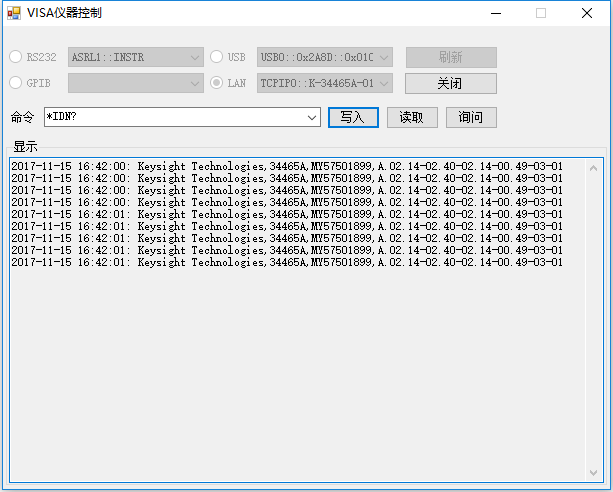
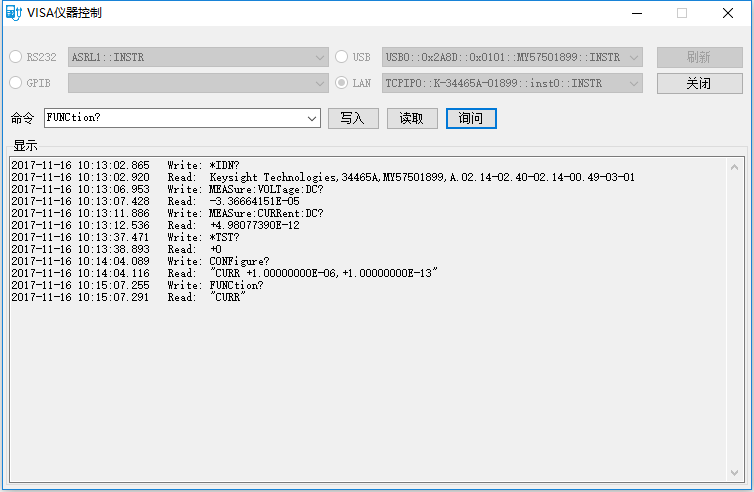
增加命令可储存/软件退出时关闭仪器/删除多余的代码

Changed region(s): [[0.0, 0.0, 1.0, 1.0], [0.8679, 0.0, 0.8989, 0.0305]]

diff --git a/VISAInstrument/FrmMain.Designer.cs b/VISAInstrument/FrmMain.Designer.cs
@@ -463,39 +463,39 @@
             this.toolStripMenuItem2,
             this.byCNXYToolStripMenuItem});
             this.contextMenuStrip.Name = "contextMenuStrip";
-            this.contextMenuStrip.Size = new System.Drawing.Size(153, 126);
+            this.contextMenuStrip.Size = new System.Drawing.Size(128, 104);
             this.contextMenuStrip.Opening += new System.ComponentModel.CancelEventHandler(this.contextMenuStrip_Opening);
             // 
             // 清除ToolStripMenuItem
             // 
             this.清除ToolStripMenuItem.Name = "清除ToolStripMenuItem";
-            this.清除ToolStripMenuItem.Size = new System.Drawing.Size(152, 22);
+            this.清除ToolStripMenuItem.Size = new System.Drawing.Size(127, 22);
             this.清除ToolStripMenuItem.Text = "清除";
             this.清除ToolStripMenuItem.Click += new System.EventHandler(this.清除ToolStripMenuItem_Click);
             // 
             // toolStripMenuItem1
             // 
             this.toolStripMenuItem1.Name = "toolStripMenuItem1";
-            this.toolStripMenuItem1.Size = new System.Drawing.Size(149, 6);
+            this.toolStripMenuItem1.Size = new System.Drawing.Size(124, 6);
             // 
             // 全选ToolStripMenuItem
             // 
             this.全选ToolStripMenuItem.Name = "全选ToolStripMenuItem";
-            this.全选ToolStripMenuItem.Size = new System.Drawing.Size(152, 22);
+            this.全选ToolStripMenuItem.Size = new System.Drawing.Size(127, 22);
             this.全选ToolStripMenuItem.Text = "全选";
             this.全选ToolStripMenuItem.Click += new System.EventHandler(this.全选ToolStripMenuItem_Click);
             // 
             // 复制ToolStripMenuItem
             // 
             this.复制ToolStripMenuItem.Name = "复制ToolStripMenuItem";
-            this.复制ToolStripMenuItem.Size = new System.Drawing.Size(152, 22);
+            this.复制ToolStripMenuItem.Size = new System.Drawing.Size(127, 22);
             this.复制ToolStripMenuItem.Text = "复制";
             this.复制ToolStripMenuItem.Click += new System.EventHandler(this.复制ToolStripMenuItem_Click);
             // 
             // toolStripMenuItem2
             // 
             this.toolStripMenuItem2.Name = "toolStripMenuItem2";
-            this.toolStripMenuItem2.Size = new System.Drawing.Size(149, 6);
+            this.toolStripMenuItem2.Size = new System.Drawing.Size(124, 6);
             // 
             // byCNXYToolStripMenuItem
             // 
@@ -503,7 +503,7 @@
             this.githubToolStripMenuItem,
             this.blogToolStripMenuItem});
             this.byCNXYToolStripMenuItem.Name = "byCNXYToolStripMenuItem";
-            this.byCNXYToolStripMenuItem.Size = new System.Drawing.Size(152, 22);
+            this.byCNXYToolStripMenuItem.Size = new System.Drawing.Size(127, 22);
             this.byCNXYToolStripMenuItem.Text = "By CNXY";
             // 
             // githubToolStripMenuItem
@@ -533,6 +533,7 @@
             this.Name = "FrmMain";
             this.StartPosition = System.Windows.Forms.FormStartPosition.CenterScreen;
             this.Text = "VISA仪器控制";
+            this.FormClosing += new System.Windows.Forms.FormClosingEventHandler(this.FrmMain_FormClosing);
             this.Load += new System.EventHandler(this.FrmMain_Load);
             this.tableLayoutPanel.ResumeLayout(false);
             this.groupBoxDisplay.ResumeLayout(false);

diff --git a/VISAInstrument/FrmMain.cs b/VISAInstrument/FrmMain.cs
@@ -1,16 +1,13 @@
 using System;
-using System.Collections.Generic;
 using System.ComponentModel;
 using System.Data;
-using System.Drawing;
 using System.Linq;
-using System.Text;
 using System.Windows.Forms;
+using System.IO.Ports;
+using System.Diagnostics;
 using VISAInstrument.Port;
 using VISAInstrument.Extension;
 using VISAInstrument.Properties;
-using System.IO.Ports;
-using System.Diagnostics;
 
 namespace VISAInstrument
 {
@@ -68,13 +65,16 @@ namespace VISAInstrument
             }
             try
             {
+                DisplayToTextBox($"Write: {cboCommand.Text}");
                 portOperatorBase.WriteLine(cboCommand.Text);
+                cboCommand.AddItem(cboCommand.Text);
             }
             catch
             {
                 MessageBox.Show($"写入命令\"{cboCommand.Text}\"失败！");
             }
         }
+
 
         private void btnRead_Click(object sender, EventArgs e)
         {
@@ -88,7 +88,7 @@ namespace VISAInstrument
             {
                 result = ex.Message;
             }
-            DisplayToTextBox(result);
+            DisplayToTextBox($"Read:  {result}");
         }
 
         private void btnQuery_Click(object sender, EventArgs e)
@@ -132,7 +132,7 @@ namespace VISAInstrument
 
         private void DisplayToTextBox(string content)
         {
-            txtDisplay.Text += $"{DateTime.Now:yyyy-MM-dd HH:mm:ss}: {content}\r\n";
+            txtDisplay.Text += $"{DateTime.Now:yyyy-MM-dd HH:mm:ss.fff}   {content}\r\n";
             txtDisplay.SelectionStart = txtDisplay.Text.Length - 1;
             txtDisplay.ScrollToCaret();
         }
@@ -234,6 +234,15 @@ namespace VISAInstrument
         private void blogToolStripMenuItem_Click(object sender, EventArgs e)
         {
             Process.Start("http://www.cnc6.cn");
+        }
+
+        private void FrmMain_FormClosing(object sender, FormClosingEventArgs e)
+        {
+            try
+            {
+                portOperatorBase?.Close();
+            }
+            catch { }
         }
     }
 }

diff --git a/VISAInstrument/Ulitity/FormUltility.cs b/VISAInstrument/Ulitity/FormUltility.cs
@@ -1,7 +1,4 @@
-using System;
-using System.Collections.Generic;
-using System.Linq;
-using System.Text;
+using System.Linq;
 using System.Windows.Forms;
 
 namespace VISAInstrument.Extension
@@ -31,5 +28,19 @@ namespace VISAInstrument.Extension
             comboBox.SetFirstItem();
         }
 
+        public static void AddItem(this ComboBox comboBox, string content)
+        {
+            foreach (var item in comboBox.Items)
+            {
+                if ((string)item == content)
+                {
+                    return;
+                }
+            }
+            string[] commands = (string[])comboBox.DataSource;
+            commands = commands.Concat(new string[] { content }).ToArray();
+            comboBox.DataSource = commands;
+            comboBox.Text = content;
+        }
     }
 }

diff --git a/VISAInstrument/Ulitity/PortUlitity.cs b/VISAInstrument/Ulitity/PortUlitity.cs
@@ -1,13 +1,9 @@
 using System;
 using System.Collections.Generic;
-using System.Linq;
 using System.Text;
 
 namespace VISAInstrument.Port
 {
-    /// <summary>
-    /// 所操作的端口类型
-    /// </summary>
     enum PortType
     {
         RS232, USB, GPIB, LAN,None

diff --git a/VISAInstrument/Program.cs b/VISAInstrument/Program.cs
@@ -1,6 +1,4 @@
 using System;
-using System.Collections.Generic;
-using System.Linq;
 using System.Windows.Forms;
 
 namespace VISAInstrument
